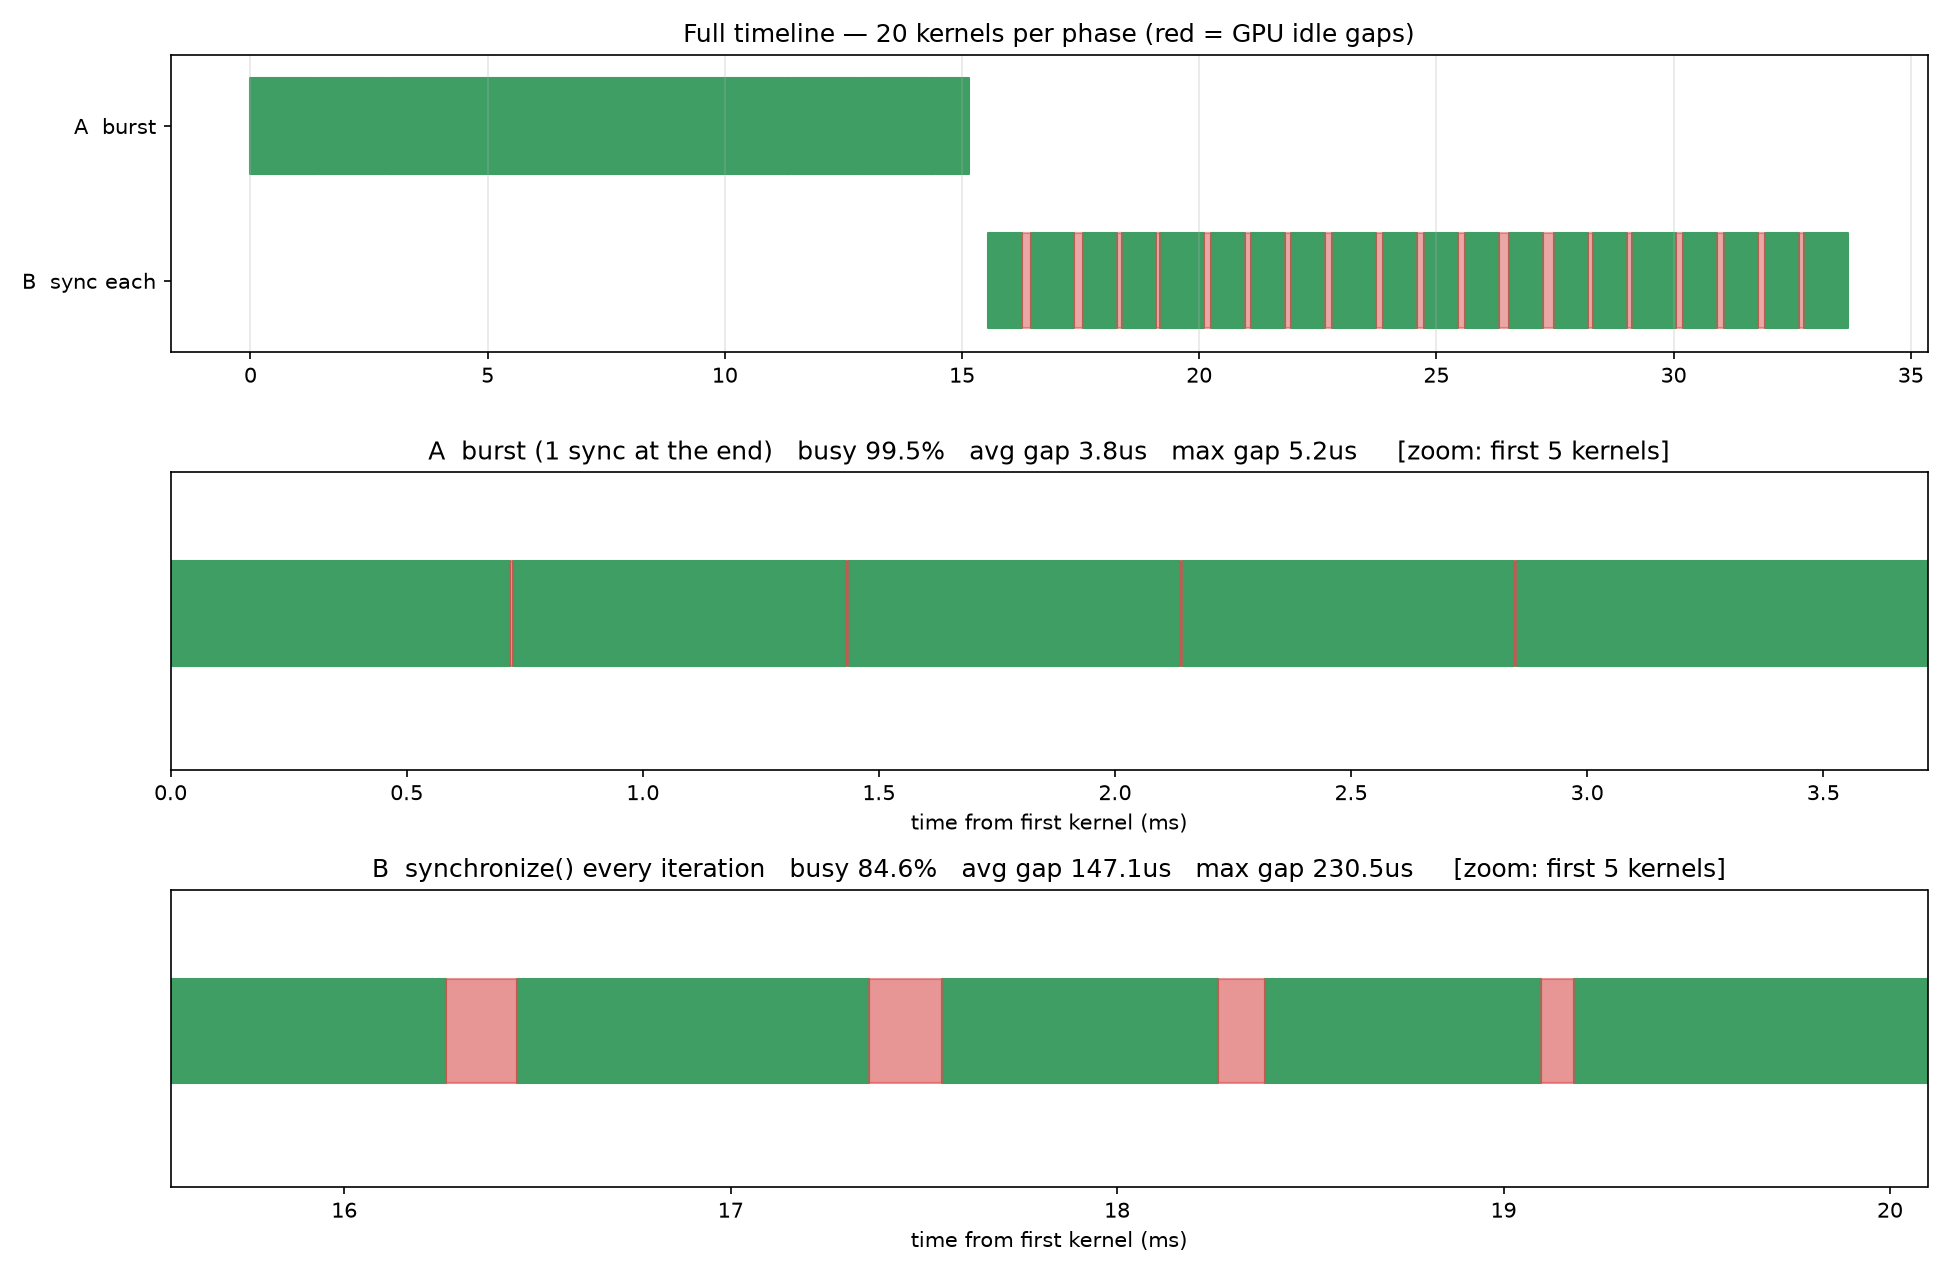
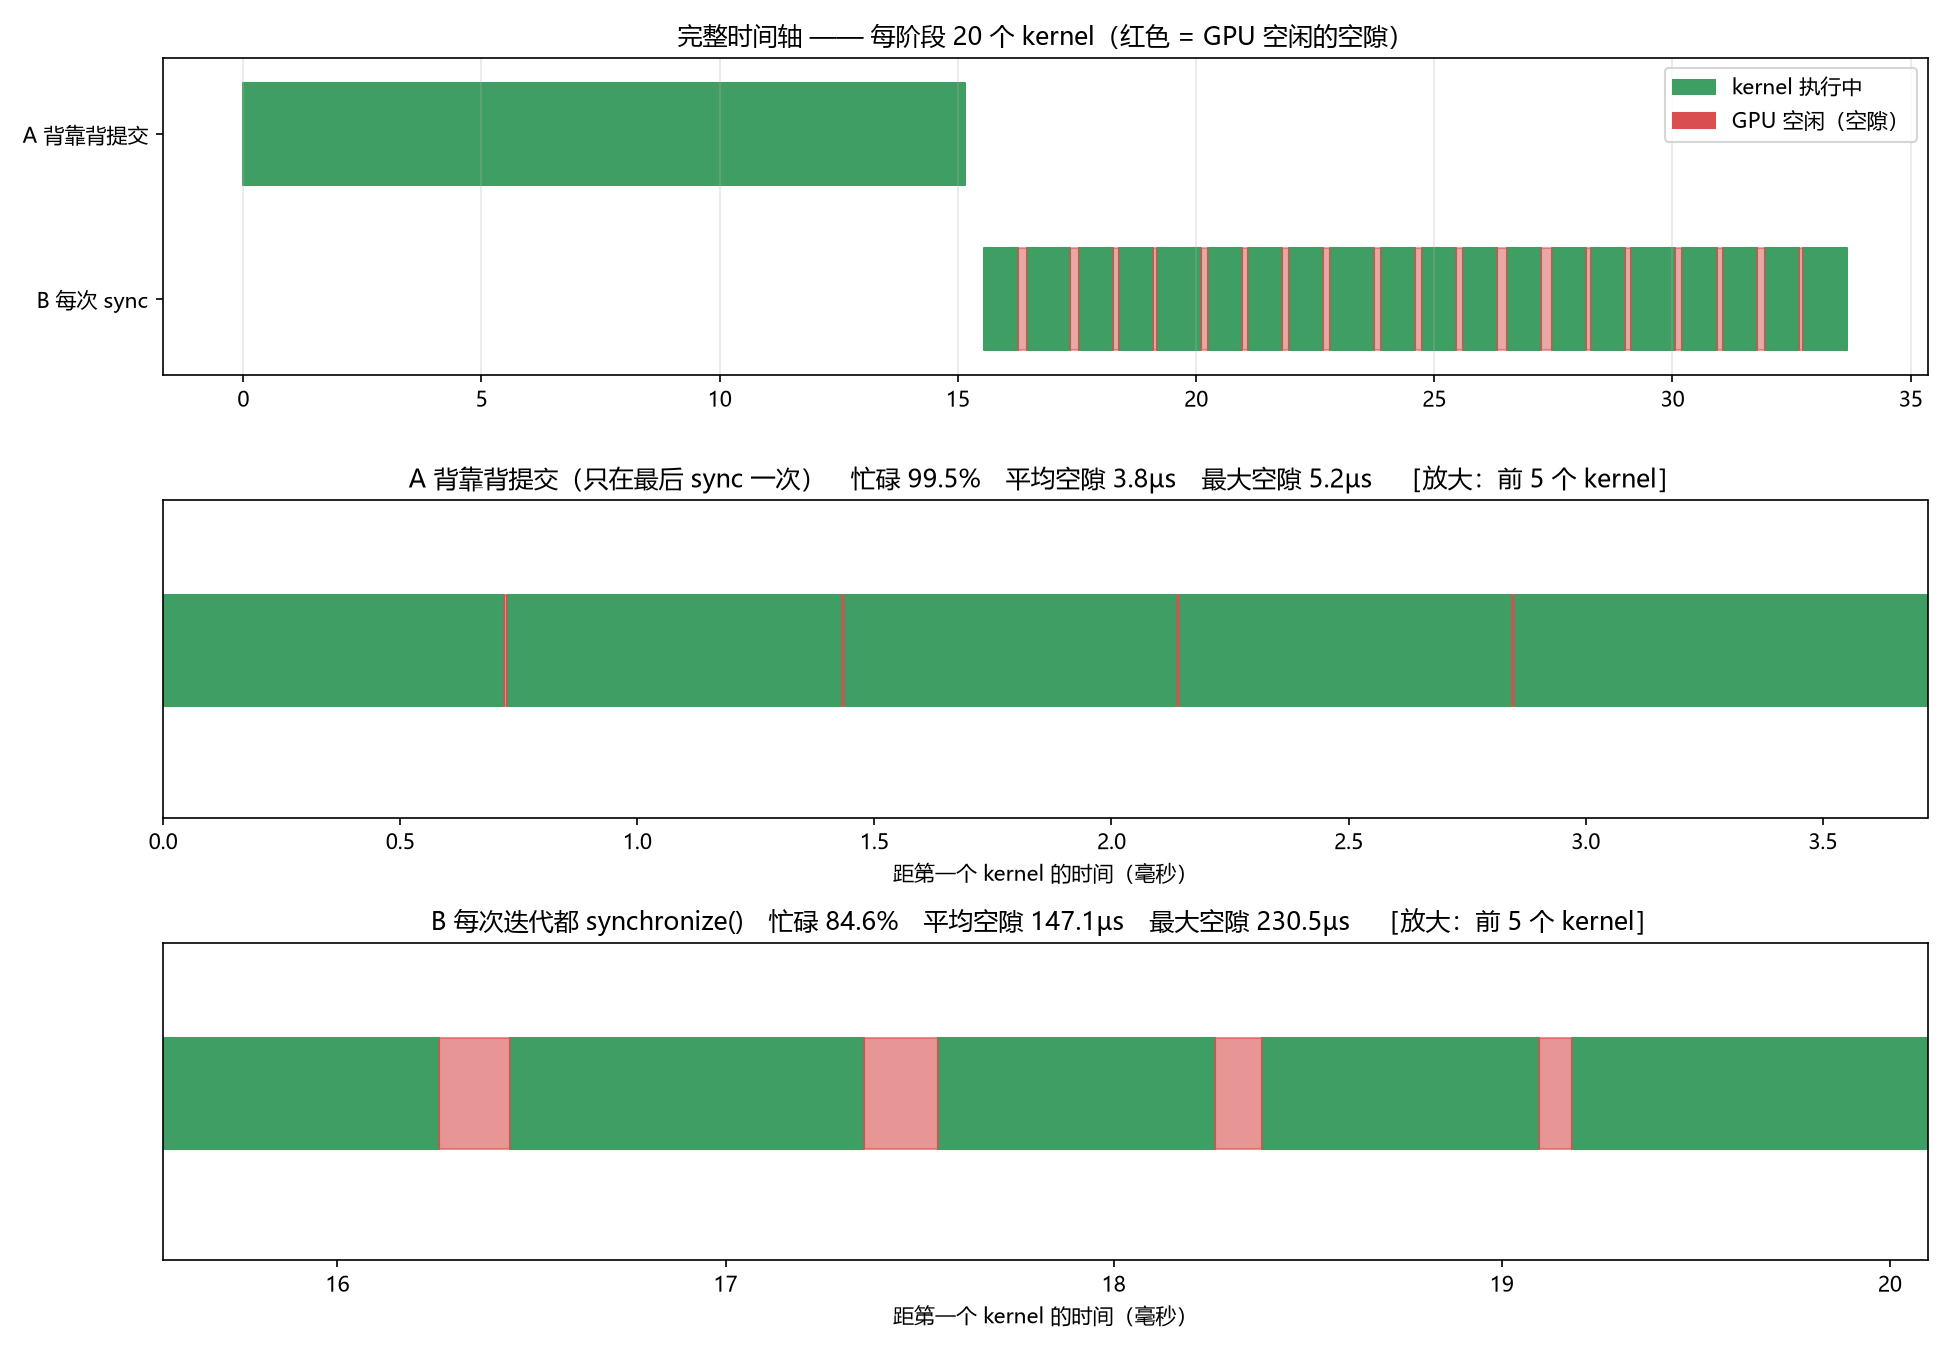
style: 图表标注改中文 + 明确画图约定
用户要求图的标注用中文。

改动:
- l03_render.py  全部标注改中文；新增 setup_cjk_font() 自动找中文字体
                  从 /mnt/c/Windows/Fonts 取（msyh -> simhei -> simsun），不需 sudo
                  必设 axes.unicode_minus=False，否则负数刻度变方框
                  新增图例（kernel 执行中 / GPU 空闲）
- traces/l03_timeline.png  中文版渲染结果
- L03 讲义      新增「中文标注怎么设」小节
- user-level.md 新增 5.7 节画图约定：中文标注 / 字体来源 / 离线可复现 / 单位必须统一

实测可用字体: 微软雅黑 msyh.ttc, 黑体 simhei.ttf, 宋体 simsun.ttc, 等线 Deng.ttf

diff --git a/lessons/code/l03_render.py b/lessons/code/l03_render.py
@@ -23,10 +23,52 @@ WSL 里没有图形界面，不切后端的话 import pyplot 就会报错。
 """
 matplotlib.use("Agg")
 import matplotlib.pyplot as plt
+from matplotlib import font_manager as fm
+from matplotlib.patches import Patch
 
 KERNEL_COLOR = "#3f9e63"
 GAP_COLOR = "#d94f4f"
 N = 20
+
+"""
+设置中文字体。不设的话，图里所有汉字都会变成方框（俗称「豆腐块」）。
+
+font_manager.fontManager.addfont(path)
+    把一个字体文件注册进 matplotlib 的字体表，之后就能按名字引用它。
+
+FontProperties(fname=path).get_name()
+    从字体文件里读出它真正的字体名（比如 "Microsoft YaHei"），
+    这个名字才是要填进 font.family 的东西。
+
+plt.rcParams["font.family"]
+    全局默认字体族。
+
+plt.rcParams["axes.unicode_minus"] = False
+    中文字体里的「减号」是另一个码位，不关掉的话坐标轴上的负数会变成方框。
+    这是中文 matplotlib 最经典的一个坑。
+
+字体从 Windows 目录取（WSL 直接能读，且不用 sudo 装）：
+微软雅黑 -> 黑体 -> 宋体，谁先加载成功就用谁。
+"""
+CJK_CANDIDATES = [
+    "/mnt/c/Windows/Fonts/msyh.ttc",      # 微软雅黑
+    "/mnt/c/Windows/Fonts/simhei.ttf",    # 黑体
+    "/mnt/c/Windows/Fonts/simsun.ttc",    # 宋体
+]
+
+
+def setup_cjk_font():
+    for path in CJK_CANDIDATES:
+        try:
+            fm.fontManager.addfont(path)
+            name = fm.FontProperties(fname=path).get_name()
+            plt.rcParams["font.family"] = name
+            plt.rcParams["axes.unicode_minus"] = False
+            return name
+        except Exception:
+            continue
+    return None
+
 
 """
 读 trace 并拆成两个阶段。
@@ -35,13 +77,13 @@ json.load(open(path))["traceEvents"]
     读 JSON → dict → 取出事件列表（list of dict）。
 
 sorted(..., key=lambda e: e["ts"])
-    按事件起始时间排序，保证内核是按时间顺序排的。
+    按事件起始时间排序，保证 kernel 是按时间顺序排的。
 
 kernels[:N] / kernels[N:2*N]
     前 20 个是阶段 A，后 20 个是阶段 B。
 
 t0 = kernels[0]["ts"]
-    把所有时间都相对第一个 kernel 的起点来表示，不然 x 轴会是一串天文数字。
+    所有时间都相对第一个 kernel 的起点表示，不然 x 轴会是一串天文数字。
 """
 events = json.load(open("l03_trace.json"))["traceEvents"]
 kernels = sorted((e for e in events if e.get("cat") == "kernel"), key=lambda e: e["ts"])
@@ -53,7 +95,7 @@ t0 = kernels[0]["ts"]
 把原始事件转成画图要用的「横段」格式。
 
 burst(ks) -> [(起点, 宽度), ...]
-    单位从微秒换成毫秒。
+    单位从微秒换成**毫秒**（x 轴用毫秒好读）。
 
 gaps(ks)  -> [(起点, 宽度), ...]
     第 i 个空隙的起点 = 前一个 kernel 的结束时刻
@@ -72,57 +114,67 @@ def gaps(ks):
 
 
 """
-算三个指标，拼成一行标题文字。逻辑和 l03_timeline.py 里完全一样，
-只是这里输出成字符串给图用。
+拼一行中文摘要给图当标题用。
 
-注意单位：gaps() 返回的宽度是**毫秒**（为了画图方便），
-但空隙用毫秒不好读 —— 0.147 ms 不如 147 us 直观。
+注意单位：gaps() 返回的宽度是**毫秒**（为了画 x 轴方便），
+但空隙用毫秒不好读 —— 0.147 ms 不如 147 µs 直观。
 所以这里乘 1000 换回微秒再打印。
 """
 def summary(ks, label):
     g = [w * 1000 for _, w in gaps(ks)]
     span = ks[-1]["ts"] + ks[-1]["dur"] - ks[0]["ts"]
     busy = sum(k["dur"] for k in ks)
-    return f"{label}   busy {busy / span * 100:.1f}%   avg gap {sum(g) / len(g):.1f}us   max gap {max(g):.1f}us"
+    return f"{label}　忙碌 {busy / span * 100:.1f}%　平均空隙 {sum(g) / len(g):.1f}µs　最大空隙 {max(g):.1f}µs"
 
 
 """
 画三个子图。
 
 plt.subplots(3, 1, figsize=(宽, 高))
-    一次创建 3 行 1 列的子图，返回 (fig, axes)；axes 是可下标的数组。
+    一次创建 3 行 1 列的子图，返回 (fig, axes)。
 
 ax.broken_barh(横段列表, (y起点, 高度))
     画一组水平色块 —— 最适合甘特图 / 时间轴。
 
-ax.set_xlim / set_yticks / set_yticklabels
+ax.set_xlim / set_yticks / ax.set_yticklabels
     控制坐标轴显示范围和刻度标签。
+
+ax.legend(handles=[Patch(...)])
+    Patch 是「图例色块」对象，用来手动造图例（因为 broken_barh 不会自动生成图例项）。
 
 fig.tight_layout()   自动调整子图间距，防止标题被裁掉。
 fig.savefig(path, dpi=150)   存 PNG，dpi 越高越清晰、文件越大。
 """
-fig, axs = plt.subplots(3, 1, figsize=(13, 8.5))
+used_font = setup_cjk_font()
+print(f"使用中文字体: {used_font or '未找到（中文会显示成方框）'}")
+
+fig, axs = plt.subplots(3, 1, figsize=(13, 9))
 
 ax = axs[0]
-ax.broken_barh(burst(phase_a), (0.6, 0.32), color=KERNEL_COLOR)
+ax.broken_barh(burst(phase_a), (0.60, 0.32), color=KERNEL_COLOR)
 ax.broken_barh(burst(phase_b), (0.08, 0.32), color=KERNEL_COLOR)
 ax.broken_barh(gaps(phase_b), (0.08, 0.32), color=GAP_COLOR, alpha=0.5)
 ax.set_ylim(0, 1)
 ax.set_yticks([0.76, 0.24])
-ax.set_yticklabels(["A  burst", "B  sync each"])
-ax.set_title("Full timeline — 20 kernels per phase (red = GPU idle gaps)")
+ax.set_yticklabels(["A 背靠背提交", "B 每次 sync"])
+ax.set_title("完整时间轴 —— 每阶段 20 个 kernel（红色 = GPU 空闲的空隙）")
 ax.grid(axis="x", alpha=0.3)
+ax.legend(
+    handles=[Patch(color=KERNEL_COLOR, label="kernel 执行中"),
+             Patch(color=GAP_COLOR, label="GPU 空闲（空隙）")],
+    loc="upper right", fontsize=10,
+)
 
-for ax, ks, label in [(axs[1], phase_a, "A  burst (1 sync at the end)"),
-                      (axs[2], phase_b, "B  synchronize() every iteration")]:
+for ax, ks, label in [(axs[1], phase_a, "A 背靠背提交（只在最后 sync 一次）"),
+                      (axs[2], phase_b, "B 每次迭代都 synchronize()")]:
     z = ks[:5]
     ax.broken_barh(burst(z), (0.35, 0.35), color=KERNEL_COLOR)
     ax.broken_barh(gaps(z), (0.35, 0.35), color=GAP_COLOR, alpha=0.6)
     ax.set_ylim(0, 1)
     ax.set_yticks([])
     ax.set_xlim((z[0]["ts"] - t0) / 1000, (z[-1]["ts"] + z[-1]["dur"] - t0) / 1000)
-    ax.set_title(summary(ks, label) + "     [zoom: first 5 kernels]")
-    ax.set_xlabel("time from first kernel (ms)")
+    ax.set_title(summary(ks, label) + "　［放大：前 5 个 kernel］")
+    ax.set_xlabel("距第一个 kernel 的时间（毫秒）")
 
 fig.tight_layout()
 fig.savefig("l03_timeline.png", dpi=150)

diff --git a/user-level.md b/user-level.md
@@ -282,6 +282,18 @@ api_b(...)
 ③ 代码块内部干净吗（有没有夹注释）？
 ④ 行数能不能再压？
 
+### 5.7 画图约定（2026-10-11 用户提出）
+
+| 规则 | 做法 |
+|---|---|
+| **图上的标注用中文** | 用户要求所有图表文字用中文 |
+| **中文字体** | 从 `/mnt/c/Windows/Fonts/msyh.ttc`（微软雅黑）取，WSL 直接能读，不用 sudo。备选 `simhei.ttf` / `simsun.ttc` |
+| **必设** `plt.rcParams["axes.unicode_minus"] = False` | 否则坐标轴上的负数变方框 |
+| **不外链在线服务** | `ui.perfetto.dev` 等 Google 系网站在本机不可达（实测 HTTP 000）。所有可视化必须**离线可复现** |
+| **单位必须统一** | 换算过的量（µs↔ms）在标题/轴上要写对单位。**画图用 ms、标注写 µs 是踩过的坑，差了 1000 倍** |
+
+**参考实现**：[`lessons/code/l03_render.py`](lessons/code/l03_render.py) —— trace → PNG，含中文字体设置与图例
+
 ---
 
 ## 6. RTX 5070 专属环境注意事项 ⚠
@@ -565,6 +577,7 @@ cd ~/work && python bench.py        # ③ 跑
 | v1.6 | 2026-10-10 | 新增 **5.6 节代码风格约定**（用户提出）：行数最少 / 注释不插在代码中间 / 注释必须解释 API 作用 |
 | v1.7 | 2026-10-10 | **用户亲自改版了 5.6 节的版式**：说明块从"全部堆在文件头"改为**紧贴它描述的那段代码**（每个函数 / 每段逻辑前面各一个）。据此重写 `bench.py` 与 `l03_timeline.py` 作为范例；5.6 节记录新版式 |
 | v1.8 | 2026-10-10 | 用户第一次自己跑代码时踩到 `python: command not found`（三个原因叠加）。新增 **6.5 节代码运行约定**（`sync.sh` → `activate` → 运行）与三个报错的对照表；新增 `scripts/sync.sh`；README 的「用法」改成「怎么跑代码」 |
+| v1.9 | 2026-10-11 | ① `ui.perfetto.dev` 被墙（实测 HTTP 000），改为**离线渲染**：`l03_render.py` 把 trace 画成 PNG。② 新增 **5.7 节画图约定**：图表标注用中文、字体从 Windows 目录取、必关 `axes.unicode_minus`、可视化必须离线可复现、单位必须统一。③ Windows Terminal 默认 profile 从 5.1 改为 PowerShell 7（7.6.6 本已是最新） |
 
 ---
 

diff --git a/lessons/L03-看见kernel之间的空隙.md b/lessons/L03-看见kernel之间的空隙.md
@@ -208,7 +208,29 @@ python l03_render.py          # 读 l03_trace.json，输出 l03_timeline.png
 
 > 📌 **顺带记一个教训**：我在 `l03_render.py` 里把时间换算成毫秒方便画图，
 > 结果标题里仍然写着 `us` —— 图上显示 `avg gap 0.1us`，实际是 **147 µs**，差了 1000 倍。
-> **单位不统一是这类可视化的头号 bug。** 改完才对上（现在显示 `147.1us`）。
+> **单位不统一是这类可视化的头号 bug。** 改完才对上（现在显示 `147.1µs`）。
+
+### 📌 中文标注怎么设（以后画图都要用）
+
+matplotlib 默认字体**没有汉字**，直接写中文会渲染成一串方框（俗称「豆腐块」）。
+
+`l03_render.py` 里的解决办法是从 **Windows 字体目录**取（WSL 直接能读，**不用 sudo 装任何东西**）：
+
+```python
+CJK_CANDIDATES = [
+    "/mnt/c/Windows/Fonts/msyh.ttc",      # 微软雅黑
+    "/mnt/c/Windows/Fonts/simhei.ttf",    # 黑体
+    "/mnt/c/Windows/Fonts/simsun.ttc",    # 宋体
+]
+fm.fontManager.addfont(path)                          # 注册字体文件
+plt.rcParams["font.family"] = name                    # 按字体名启用
+plt.rcParams["axes.unicode_minus"] = False            # ← 这行不能忘
+```
+
+**为什么必须设 `axes.unicode_minus = False`**：中文字体里的减号是另一个码位，
+不关掉的话坐标轴上的负数（比如 `-0.5`）会变成方框 —— 这是中文 matplotlib 最经典的坑。
+
+实测本机可用的 Windows 字体：微软雅黑 `msyh.ttc`、黑体 `simhei.ttf`、宋体 `simsun.ttc`、等线 `Deng.ttf`。
 
 ---
 
